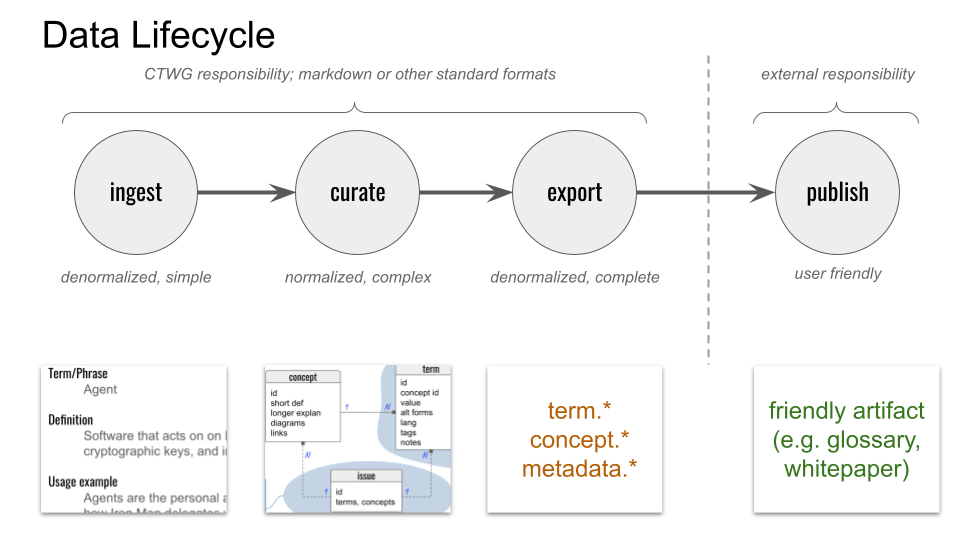
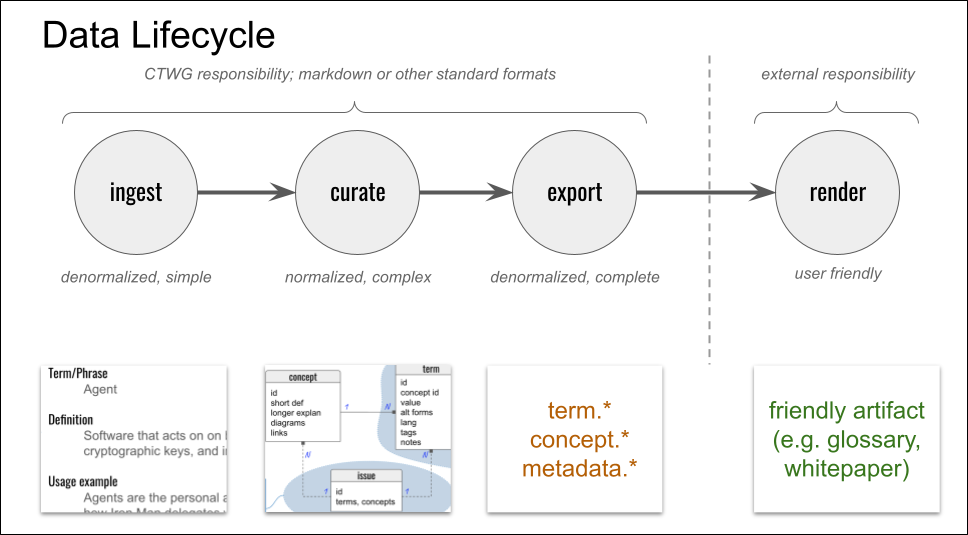
Minor tweak of spec

diff --git a/toipterm/spec.md b/toipterm/spec.md
@@ -13,7 +13,7 @@ TT is a specialized tool for managing terminology. It does NOT replace the stand
 * SpecUp is our tool for publishing specifications from markdown.
 * MkDocs is our tool for publishing websites and similar documentation from markdown.
 
-None of these tools manage terminology. TT plugs that gap (and _only_ that gap). *It is important to understand that TT itself does not publish glossaries*; rather, it publishes data that a markdown transformation tool can use as input (e.g., MkDocs to convert the data into a browsable glossary, or SpecUp to convert the data into hyperlinks in a spec). TT provides hooks that can invoke these other tools, but technically, TT's scope ends with raw data in the [exported data model](../docs/exported-data-model.md).
+None of these tools manage terminology. TT plugs that gap (and _only_ that gap). *It is important to understand that TT itself does not publish glossaries*; rather, it publishes data that a markdown transformation tool can use as input (e.g., MkDocs to convert the data into a browsable glossary, or SpecUp to convert the data into hyperlinks in a spec). TT provides a hook that can invoke these other tools, but for the most part, TT's scope focuses on raw data in the [exported data model](../docs/exported-data-model.md).
 
 ### People
 
@@ -54,7 +54,7 @@ tt ingest <path> <scope> -- Read data from the file or folder at <path>.
           Confirm that the data matches the ingestible data model. If yes,
           use the data to populate new term and concept records in the the
           portion of the corpus owned by <scope>.
-tt check <record glob> -- Read the corpus and check for well formedness in
+tt check <record glob> -- Read the corpus and check for well-formedness in
           all files that match the specified globbing pattern. Update the 
           #checked status of any records that change status. Report errors.
 tt checklink <record glob> -- Validate hyperlinks in all files that match the
@@ -67,4 +67,9 @@ tt export <export def> <path> -- Using the specified export definition, select
           results to the new folder identified by <path>. After this command
           runs, a publication tool like MkDocs or SpecUp can use the exported
           data to publish a polished artifact.
+tt render <path> <render def> -- Invoke a rendering tool like MkDocs, using
+          the exported data in <path> as input. This is simply a convenience
+          function; rendering tools could be invoked directly, but this
+          command allows users of TT to accomplish the full workflow without
+          learning the idiosyncrasies of those tools.
 ```
